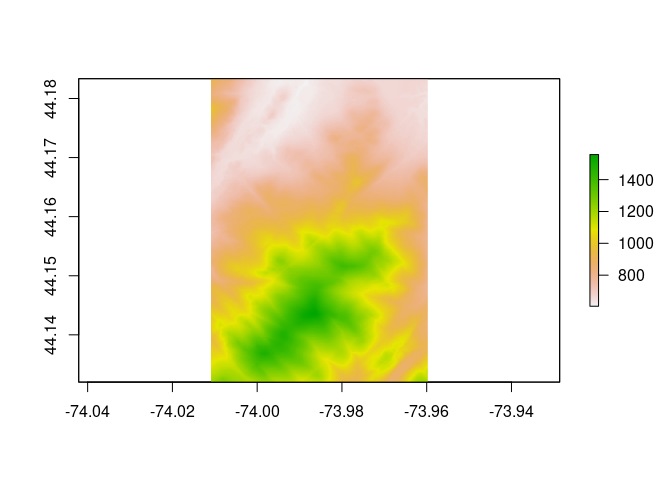
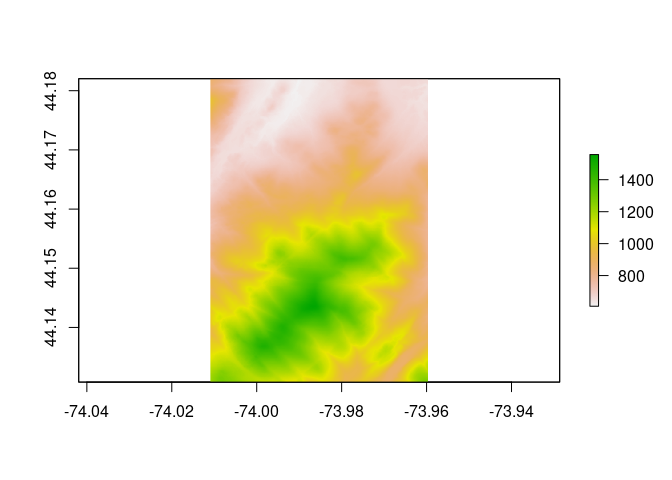
Finish README

diff --git a/README.md b/README.md
@@ -21,17 +21,21 @@ orthoimages from the National Agriculture Imagery Program.
 
 ``` r
 library(terrainr)
-output_tiles <- get_tiles(bbox = list(c(lat = 44.13926, lng = -74.01099),
-                                      c(lat = 44.17609, lng = -73.95974)),
+simulated_data <-  data.frame(id = seq(1, 100, 1),
+                              lat = runif(100, 44.04905, 44.17609), 
+                              lng = runif(100, -74.01188, -73.83493))
+
+bbox <- get_coord_bbox(lat = simulated_data$lat, lng = simulated_data$lng) 
+output_tiles <- get_tiles(bbox = bbox,
                           services = c("elevation", "ortho"))
 
 # output_tiles is now a list of two vectors pointing to the elevation and 
 # orthoimagery tiles we just downloaded -- here we're displaying the first
 # of the ortho tiles
-knitr::include_graphics(output_tiles[[2]][[1]])
+raster::plot(raster::raster(output_tiles[[2]][[1]]))
 ```
 
-<img src="/tmp/RtmpkYRD2t/fileac0a57819d51_USGSNAIPPlus_1_1.png" width="100%" />
+<img src="man/figures/README-unnamed-chunk-2-1.png" width="100%" /><img src="man/figures/README-unnamed-chunk-2-2.png" width="100%" />
 
 Once downloaded, these images are in standard GeoTIFF or PNG formats and
 can be used as expected with other utilities:
@@ -45,34 +49,30 @@ raster::plot(raster_read)
 
 Additionally, terrainr provides functions to transform these tiles into
 RAW images ready to be imported into the Unity rendering engine,
-allowing you to fly or walk through your downloaded data sets:
+allowing you to fly or walk through your downloaded data sets in 3D or
+VR:
 
 ``` r
-# We need to convert our PNG orthoimage to a TIFF for raster_to_raw_tiles
+merged_dem <- tempfile(fileext = ".tif")
+merged_ortho <- tempfile(fileext = ".tif")
+# we can call these vectors by name instead of position, too
+merge_rasters(output_tiles$`3DEPElevation`, 
+              merged_dem, 
+              output_tiles$USGSNAIPPlus, 
+              merged_ortho)
 
-# When working with larger areas than our toy example here, this happens
-# naturally when using merge_rasters(). We'll fake that step of the 
-# process here:
-output_tiles[[3]] <- tempfile(fileext = ".tif")
-merge_rasters(output_tiles[[1]], 
-              output_tiles[[1]],
-              output_tiles[[2]],
-              output_tiles[[3]])
+mapply(function(x, y) raster_to_raw_tiles(input_file = x, 
+                                          output_prefix = tempfile(), 
+                                          side_length = 4097, 
+                                          raw = y),
+       c(merged_dem, merged_ortho),
+       c(TRUE, FALSE))
 
-mapply(
-  function(x, y) raster_to_raw_tiles(input_file = x, 
-                                     output_prefix = "marcy", 
-                                     side_length = 4096, 
-                                     raw = y),
-  c(output_tiles[[1]], output_tiles[[3]]),
-  c(TRUE, FALSE)
-  )
-```
-
-``` r
-# With about two minutes of movie magic (loading the files into Unity), 
+# With about ten minutes of movie magic (loading the files into Unity), 
 # we can turn that into:
 ```
+
+<img src="man/figures/unity-lakeside.jpg" width="100%" />
 
 terrainr also includes functionality to merge and crop the files you’ve
 downloaded, and to resize your area of interest so you’re sure to
@@ -85,14 +85,7 @@ vignette\!](https://mikemahoney218.github.io/terrainr/articles/overview.html)
 
 ## Installation
 
-You can install
-<!-- the released version of terrainr from [CRAN](https://CRAN.R-project.org) with:
-
-``` r
-install.packages("terrainr")
-```
-
-And --> the development version of terrainr from
+You can install the development version of terrainr from
 [GitHub](https://github.com/mikemahoney218/terrainr) with:
 
 ``` r
